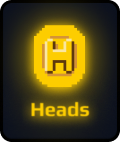
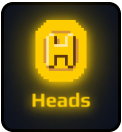
Update heads and tails button css

diff --git a/flick-the-bean/src/components/flip-coin-content/flipCoinContent.tsx b/flick-the-bean/src/components/flip-coin-content/flipCoinContent.tsx
@@ -240,22 +240,32 @@ const FlipCoinContent:FC<FlipCoinContentProps> = ({  }) => {
 						<div className="btns-control">
 							<div className="btns-control-left">
 								<div className="btns-row mt-30">
-									<button className="" id="head-btn" disabled={loading} onClick={() => {setStatus('heads')}}>
+									<button className={`btns-row-item ${status == "heads" && 'btns-row-item-active' }`} id="head-btn" disabled={loading} onClick={() => {setStatus('heads')}}>
 										<img className="btn-white__avatar" src={`/static/img/heads${status == 'heads' ? '_active' : '_disable'}.png`} alt="head icon" />
 									</button>
-									<button className="" disabled={loading} onClick={() => {setStatus("tails")}}>
+									<button className={`btns-row-item ${status == "tails" && 'btns-row-item-active' }`} disabled={loading} onClick={() => {setStatus("tails")}}>
 										<img className="btn-white__avatar" src={`/static/img/tails${status == 'tails' ? '_active' : '_disable'}.png`} alt="tail icon" />
 									</button>
 								</div>
 								<div className="btns-grid mt-30">
 									<button disabled={loading} className={`btn-outline btn-outline--medium ${acd == 0.1 && 'btn-outline--medium-active' }`} onClick={() => handleAcd(0.1)}>
-										0.1
+										<span>0.1</span>
 									</button>
-									<button disabled={loading} className={`btn-outline btn-outline--medium ${acd == 0.25 && 'btn-outline--medium-active' }`} onClick={() => handleAcd(0.25)}>0.25</button>
-									<button disabled={loading} className={`btn-outline btn-outline--medium ${acd == 0.5 && 'btn-outline--medium-active' }`} onClick={() => handleAcd(0.5)}>0.5</button>
-									<button disabled={loading} className={`btn-outline btn-outline--medium ${acd == 1 && 'btn-outline--medium-active' }`} onClick={() => handleAcd(1)}>1</button>
-									<button disabled={loading} className={`btn-outline btn-outline--medium ${acd == 2 && 'btn-outline--medium-active' }`} onClick={() => handleAcd(2)}>2</button>
-									<button disabled={loading} className={`btn-outline btn-outline--medium ${acd == 3 && 'btn-outline--medium-active' }`} onClick={() => handleAcd(3)}>3</button>
+									<button disabled={loading} className={`btn-outline btn-outline--medium ${acd == 0.25 && 'btn-outline--medium-active' }`} onClick={() => handleAcd(0.25)}>
+										<span>0.25</span>
+									</button>
+									<button disabled={loading} className={`btn-outline btn-outline--medium ${acd == 0.5 && 'btn-outline--medium-active' }`} onClick={() => handleAcd(0.5)}>
+										<span>0.5</span>
+									</button>
+									<button disabled={loading} className={`btn-outline btn-outline--medium ${acd == 1 && 'btn-outline--medium-active' }`} onClick={() => handleAcd(1)}>
+										<span>1</span>
+									</button>
+									<button disabled={loading} className={`btn-outline btn-outline--medium ${acd == 2 && 'btn-outline--medium-active' }`} onClick={() => handleAcd(2)}>
+										<span>2</span>
+									</button>
+									<button disabled={loading} className={`btn-outline btn-outline--medium ${acd == 3 && 'btn-outline--medium-active' }`} onClick={() => handleAcd(3)}>
+										<span>3</span>
+									</button>
 								</div>
 							</div>
 							<div className="btns-control-right">

diff --git a/flick-the-bean/styles/_components.scss b/flick-the-bean/styles/_components.scss
@@ -972,11 +972,12 @@
 	}
 
 	&--medium {
+		position: relative;
 		display: flex;
 		width: 80px;
 		height: 56px;
-		padding: 25px 40px;
 		justify-content: center;
+		padding: 0px;
 		align-items: center;
 		border: 3px solid rgba(0, 0, 0, 1);
 		font-size: 20px;
@@ -984,14 +985,18 @@
 		font-weight: 700;
 		line-height: 23.14px;
 		color: rgba(255, 255, 255, 0.3);
+		background: black;
 
 		&-active {
+			height: 66px;
+			margin-top: -10px;
 			background-image: unset;
-			background-color: rgba(14, 18, 29, 1);
+			
 			color: rgba(253, 205, 0, 1);
 			text-shadow: 0px 0px 10px rgba(253, 205, 0, 1) inset;
 			text-shadow: 0px 2px 10px rgba(253, 205, 0, 1);
 			text-shadow: 0px 2px 10px rgba(253, 205, 0, 1);
+			border-bottom: 10px solid black;
 
 			&[disabled] {
 				border: 1px solid #f5f5f51c !important;
@@ -1000,10 +1005,21 @@
 				cursor: not-allowed;
 			}
 		}
+
+		span {
+			display: inline-block;
+			width: 100%;
+			height: 100%;
+			border-radius: 10px;
+			display: flex;
+			justify-content: center;
+			align-items: center;
+			background: linear-gradient(180deg, #101729 0%, #0B101D 100%);
+		}
 	}
 
 	&:hover {
-		background: rgba(255, 255, 255, 0.15);
+		// background: rgba(255, 255, 255, 0.15);
 	}
 
 	img {

diff --git a/flick-the-bean/styles/_main-content.scss b/flick-the-bean/styles/_main-content.scss
@@ -81,7 +81,7 @@
 .btns-grid {
 	display: grid;
 	grid-template-columns: repeat(3, 1fr);
-	gap: 4px;
+	gap: 20px 8px;
 	justify-items: center;
 }
 
@@ -275,7 +275,19 @@
 .btns-row {
 	display: flex;
 	justify-content: center;
+	align-items: flex-end;
 	gap: 20px;
+
+	&-item {
+		width: 120px;
+		background-color: black;
+		display: flex;
+		border-radius: 12px;
+
+		&-active {
+			height: 152px;
+		}
+	}
 
 	button img {
 		width: 120px;
